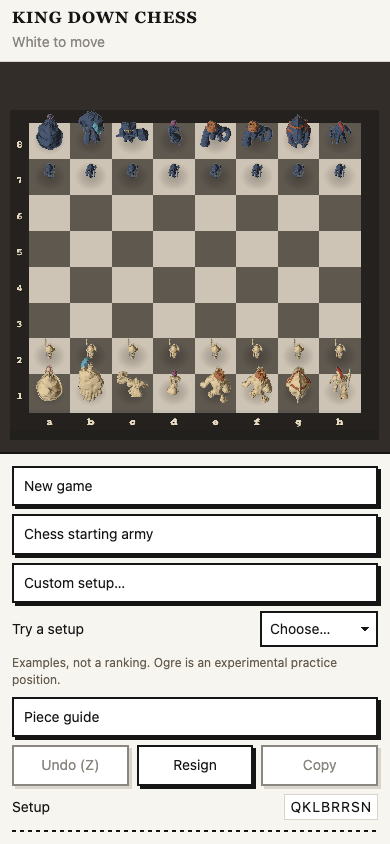
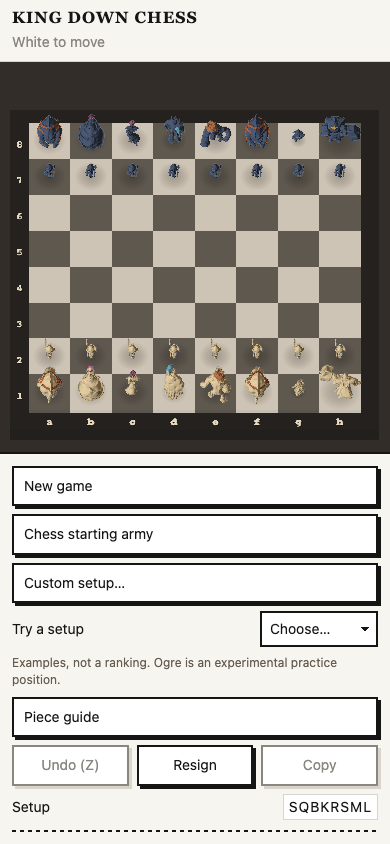
Adjust Maester, Paladin and king proportions

diff --git a/src/render/renderer.ts b/src/render/renderer.ts
@@ -4,7 +4,7 @@ import { EffectComposer } from 'three/addons/postprocessing/EffectComposer.js';
 import { OrbitControls } from 'three/addons/controls/OrbitControls.js';
 import { RenderPixelatedPass } from 'three/addons/postprocessing/RenderPixelatedPass.js';
 import { OutputPass } from 'three/addons/postprocessing/OutputPass.js';
-import { Color, LETTERS, Move, K, N, O, RULES, Position, PieceType, colorOf, file, rank, typeOf } from '../rules/engine';
+import { Color, LETTERS, Move, K, L, M, N, O, RULES, Position, PieceType, colorOf, file, rank, typeOf } from '../rules/engine';
 import { ARMY, TARGET_HEIGHT, pieceGeometry } from './voxels';
 import { Debris, Tweens, easeOut, labelSprite, linear } from './fx';
 import { PALETTES, createPalettePass, paletteTexture } from './palette';
@@ -518,9 +518,12 @@ export class BoardRenderer {
         // Study figures have different source heights. Fit the accepted shape to a
         // playable square without changing its proportions or authored rig.
         const size = new THREE.Box3().setFromObject(figure.model).getSize(new THREE.Vector3());
-        const scale = Math.min(TARGET_HEIGHT[t] / size.y, .92 / Math.max(size.x, size.z)) * (this.style.pieceScale ?? 1);
+        // Owner proportions apply after fitting, including every king design.
+        const relativeSize = t === M ? .5 : t === L ? 1.3 : t === K ? .8 : 1;
+        const scale = Math.min(TARGET_HEIGHT[t] / size.y, .92 / Math.max(size.x, size.z)) * (this.style.pieceScale ?? 1) * relativeSize;
         figure.model.scale.multiplyScalar(scale);
         (g.userData.label as THREE.Sprite).position.y = size.y * scale + .25;
+        (g.userData.shadow as THREE.Mesh | undefined)?.scale.multiplyScalar(relativeSize);
         g.userData.figure = figure;
         g.add(figure.model);
         this.updateContours();

diff --git a/docs/playable-clay/README.md b/docs/playable-clay/README.md
@@ -20,13 +20,16 @@ Based on graphics-session commit `af30711` from “Audit chess graphic engine”
 
 The existing shared Ogre loader was generalized into `ClayFigure`; geometry/materials are shared, skeletons and mixers are per piece, and only needed models load. Piece contours use the study's tested skin/morph-aware pass. Uniform board sizing preserves model proportions while fitting the playable squares. Both armies face toward the opposing side at rest (White toward world −Z, Black toward +Z); travel/contact facing is temporary and resets after movement and undo. Knights retain their leap; walking, capturing, undo and new-game reset preserve the game state.
 
+The owner's relative size adjustments apply after that board fit: **Maester ×0.5, Paladin ×1.3, every king design ×0.8**, uniformly on all three axes for both armies. Labels follow the new height and ground shadows scale with each figure. The 0.5 px setting is the finest existing study preset, not the maximum possible model detail: this game still loads the lighter `board-*.glb` assets; the original `rebuilt-*.glb` sculpts retain more geometry for close-ups.
+
 Two integration issues were caught during browser verification: invisible letter sprites intercepted clicks on pawns (Three.js raycasts invisible sprites), and the desktop HUD covered the mobile back rank. Picking now excludes invisible hits; the mobile header has its own row above the board. The existing lightweight capture debris remains the game effect. The five elaborate capture sequences remain standalone study previews; their synchronous fragment construction is not put on the gameplay path. Physical-phone/older-device frame rates remain unmeasured.
 
 ## Verification
 
-- `npm test`: **210/210 tests, seven files** from the playable integration; includes the five imported search regressions. `engine-tests.log`. The subsequent facing/presentation correction does not touch rules or search code; it was verified by build and browser checks below.
+- `npm test`: **210/210 tests, seven files** from the playable integration; includes the five imported search regressions. `engine-tests.log`. Subsequent facing, presentation and proportion changes do not touch rules or search code; they were verified by build and browser checks below.
 - `npm run build`: passes TypeScript and production bundling. Vite retains a non-failing large-chunk notice. `build.log`.
 - `node tools/verify-playable-clay.mjs`: **15 browser checks pass** against the production preview, zero page/console errors. Includes opponent-facing armies after movement/undo, fixed handmade material and 0.5 px render targets, absent rendering controls, ignored legacy saved/URL style preferences, real clicks on every initial pawn-square centre, knight leap, human/computer play, save/reload, optional setup, current rule text, capture/undo, Ogre shove and mid-animation undo, new-game recovery and 390×844 mobile layout. `browser-checks.json`.
 - Desktop and mobile screenshots were inspected: `desktop.png`, `mobile.png`. The header does not cover the mobile board. These are software checks, not participant play-test feedback.
+- `piece-sizes.json`: six actual before/after figure comparisons against `a4d6491` confirm uniform Maester ×0.5, Paladin ×1.3 and king ×0.8 scaling in both armies, including corresponding label heights and shadow scales. Browser checks also verify that both pawn ranks remain selectable beside these resized pieces.
 
 Research findings remain in the main project's `docs/research/direct-campaign-2026-09-22.md`. No research queue or delegation was restarted. This playable branch combines the accepted graphics and search repair without merging the separate experimental campaign into the owner's main checkout.

diff --git a/TASKS.md b/TASKS.md
@@ -1,5 +1,10 @@
 # Tasks
 
+## Piece proportions — 2026-09-22
+- Owner requests Maester 50% smaller, Paladin 30% bigger and every king 20% smaller. Apply uniform size factors after the existing board fit so the width limit cannot cancel the requested change; adjust labels and ground shadows with the figures.
+- Verify: compare actual model scales against the prior build for both armies; build and exercise movement, picking, undo and mobile layout in the production browser. Keep handmade clay at 0.5 px.
+- [x] Applied uniform ×0.5 / ×1.3 / ×0.8 proportions after board fitting, with matching label heights and ground shadows. Six before/after figure comparisons match exactly; production build and all 15 browser checks pass, including both pawn ranks beside resized figures. Inspected mobile and live desktop; the owner's eight saved moves survived refresh. Evidence: `docs/playable-clay/piece-sizes.json` and `browser-checks.json`.
+
 ## Fixed handmade-clay presentation — 2026-09-22
 - Owner correction: armies must face one another; use handmade clay at the study's 0.5 px double-detail rendering, without player rendering choices.
 - Plan: correct the clay models' resting orientation; pin the playable style/fidelity and remove rendering controls plus URL/save overrides. Preserve gameplay and the separate graphics study.
